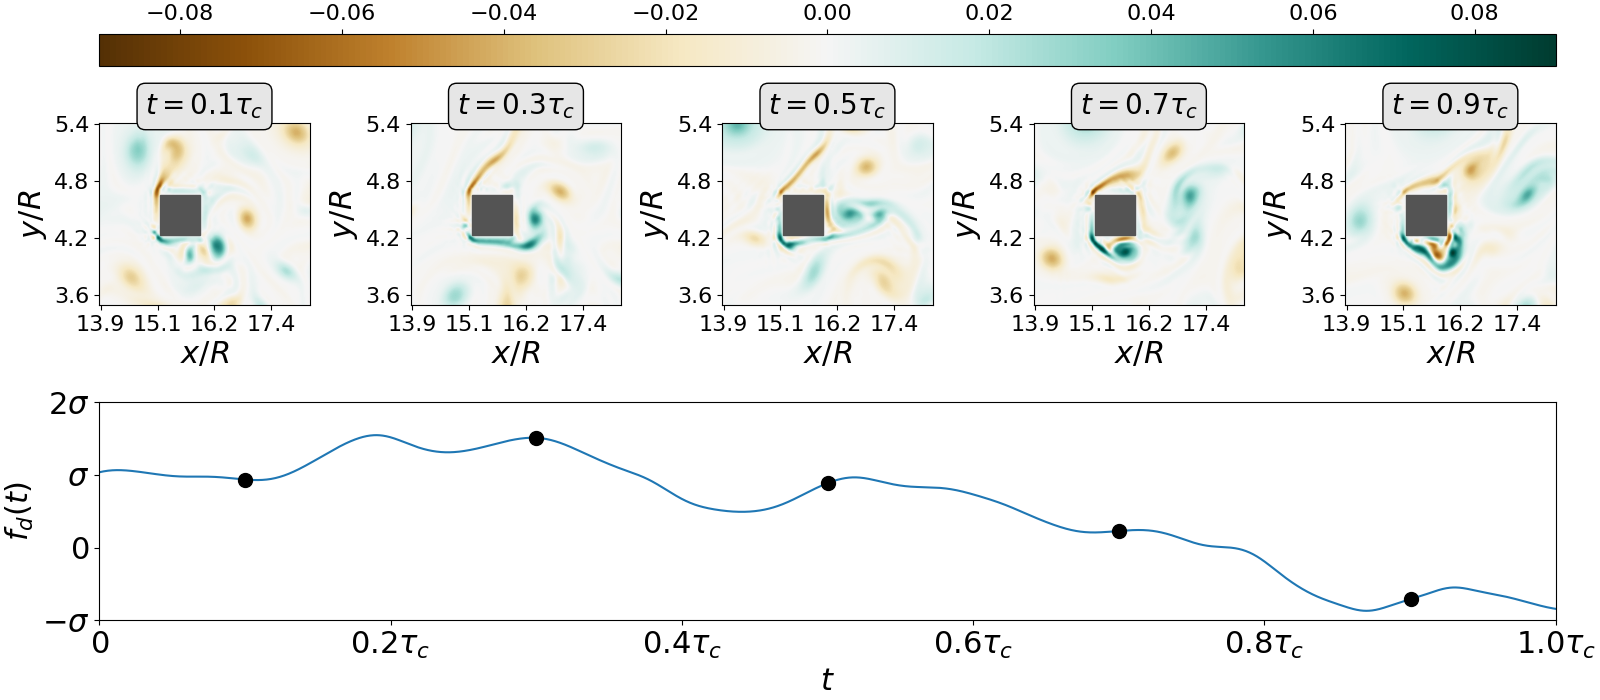
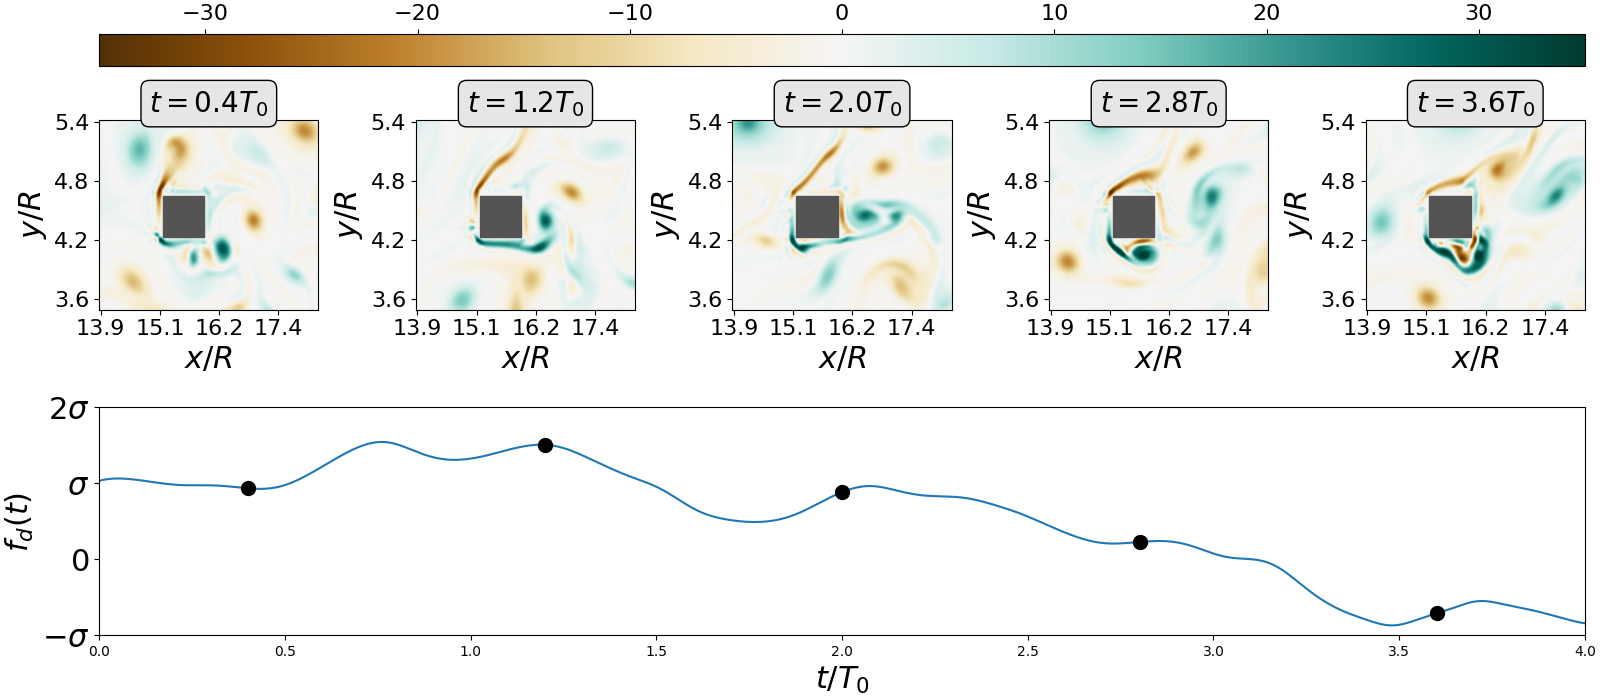
Update units plot_ecoulement_typique

diff --git a/figures/ecoulement_typique/plot_ecoulement_typique.py b/figures/ecoulement_typique/plot_ecoulement_typique.py
@@ -6,6 +6,8 @@ import csv
 import matplotlib.pyplot as plt
 from matplotlib.patches import Rectangle
 
+T0 = 500 # Turn-over time in lattice units
+
 Dx = 513
 Dy = 129
 N = Dx*Dy
@@ -55,14 +57,16 @@ for i in range(0,nplots-1):
         # The sign of the vorticity is wrong if using a right-handed coord. system.
         # The velocity field should probably be flipped upside-down
         vort = - vort
+        # Express vorticity in unit of T0 and R
+        vort = vort*T0
 
         # Print time as title
-        timeFromBeg=0.1+i*0.2
-        tit='$t={:2.1f}\\tau_c$'.format(timeFromBeg)
+        timeFromBeg=0.4+i*0.8
+        tit='$t={:2.1f}T_0$'.format(timeFromBeg)
 
         ax_list[i].set_title(tit,fontsize=20,bbox=bbox)
         # Print vorticity field
-        im=ax_list[i].imshow(vort, interpolation='spline36', cmap='BrBG', vmin=-0.09, vmax=0.09)
+        im=ax_list[i].imshow(vort, interpolation='spline36', cmap='BrBG', vmin=-35, vmax=35)
         # Adds a filled Rectangle to mark the square obstacle
         rect = ax_list[i].add_artist(Rectangle((21,25), 14, 14))
         rect.set_color('#545454')
@@ -87,19 +91,19 @@ cbar.ax.tick_params(labelsize=16)
 sig=0.0412
 m=0.0252
 Nt = 2000;
-fd = (np.fromfile('./data_force.datout',float,Nt,"")-m)/sig
-tspan = np.linspace(0,1,Nt)
+fd = (np.fromfile(prefix+'data_force.datout',float,Nt,"")-m)/sig
+tspan = np.linspace(0,4,Nt)
 ax_list[-1].plot(tspan,fd)
 # And plots nplots-1 dots for the nplots-1 snapshots
 for t in range(0,2000,400):
         ax_list[-1].plot(tspan[t+200],fd[t+200],marker='o',markersize=10,linestyle='None',color='k')
-ax_list[-1].set_xlim((0,1))
-ax_list[-1].set_xticklabels(['$0$','$0.2\\tau_c$','$0.4\\tau_c$','$0.6\\tau_c$','$0.8\\tau_c$','$1.0\\tau_c$'], fontsize=22)
+ax_list[-1].set_xlim((0,4))
+#ax_list[-1].set_xticklabels(['$0$','$0.2\\tau_c$','$0.4\\tau_c$','$0.6\\tau_c$','$0.8\\tau_c$','$1.0\\tau_c$'], fontsize=22)
 ax_list[-1].set_ylim((-1,2))
 ax_list[-1].set_yticks(range(-1,3,1))
 ax_list[-1].set_yticklabels(['$-\\sigma$','$0$','$\\sigma$','$2\\sigma$'], fontsize=22)
 ax_list[-1].set_ylabel('$f_d(t)$',fontsize=22)
-ax_list[-1].set_xlabel('$t$',fontsize=22)
+ax_list[-1].set_xlabel('$t/T_0$',fontsize=22)
 
 
 fname = 'ecoulement_typique.png'
